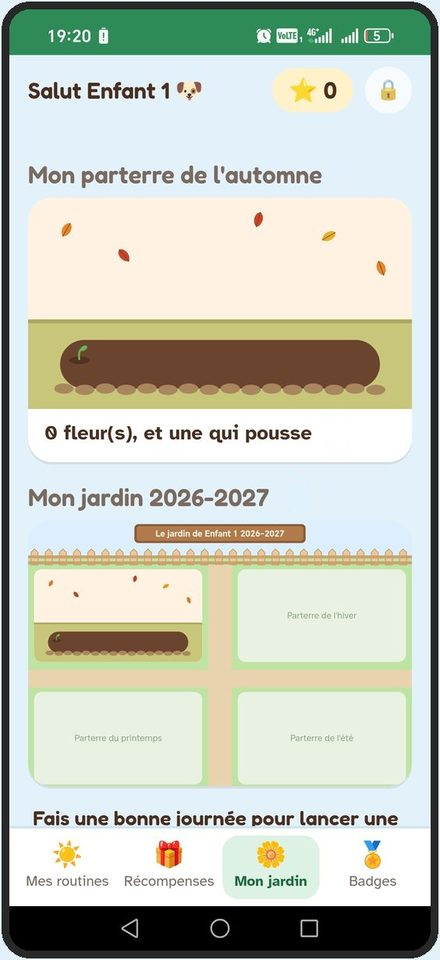
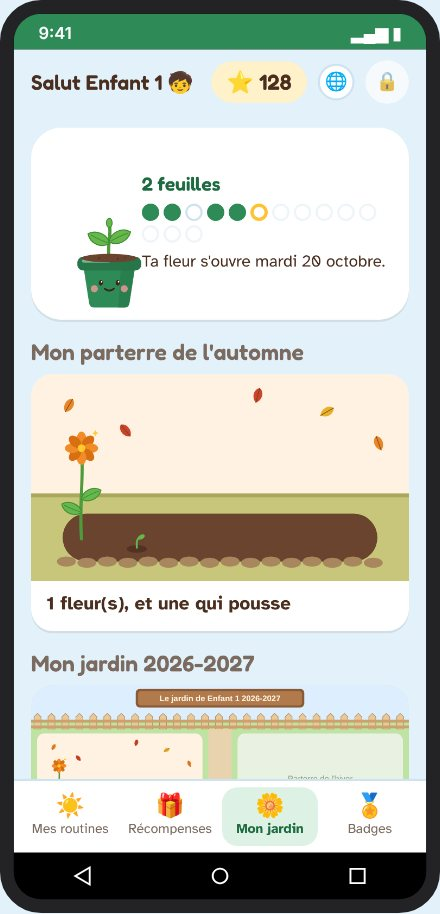
vitrine : capture Mon jardin à jour (pot au-dessus du parterre)
Claude-Session: https://claude.ai/code/session_01Q8QAWxZDxL3CxqRXBMPQx7

diff --git a/vitrine/index.html b/vitrine/index.html
@@ -127,7 +127,7 @@ footer{padding:28px 0 calc(40px + env(safe-area-inset-bottom,0px));color:var(--m
           <a class="btn ghost" href="#comment">Comment ça marche</a>
         </div>
       </div>
-      <img class="phone" src="img/jardin.jpg" alt="L'onglet Mon jardin de l'enfant, avec son parterre et son jardin de l'année" width="440" height="960">
+      <img class="phone" src="img/jardin.jpg" alt="L'onglet Mon jardin de l'enfant : la fleur en cours dans son pot, puis son parterre de saison" width="440" height="914">
     </div>
   </div>
 
